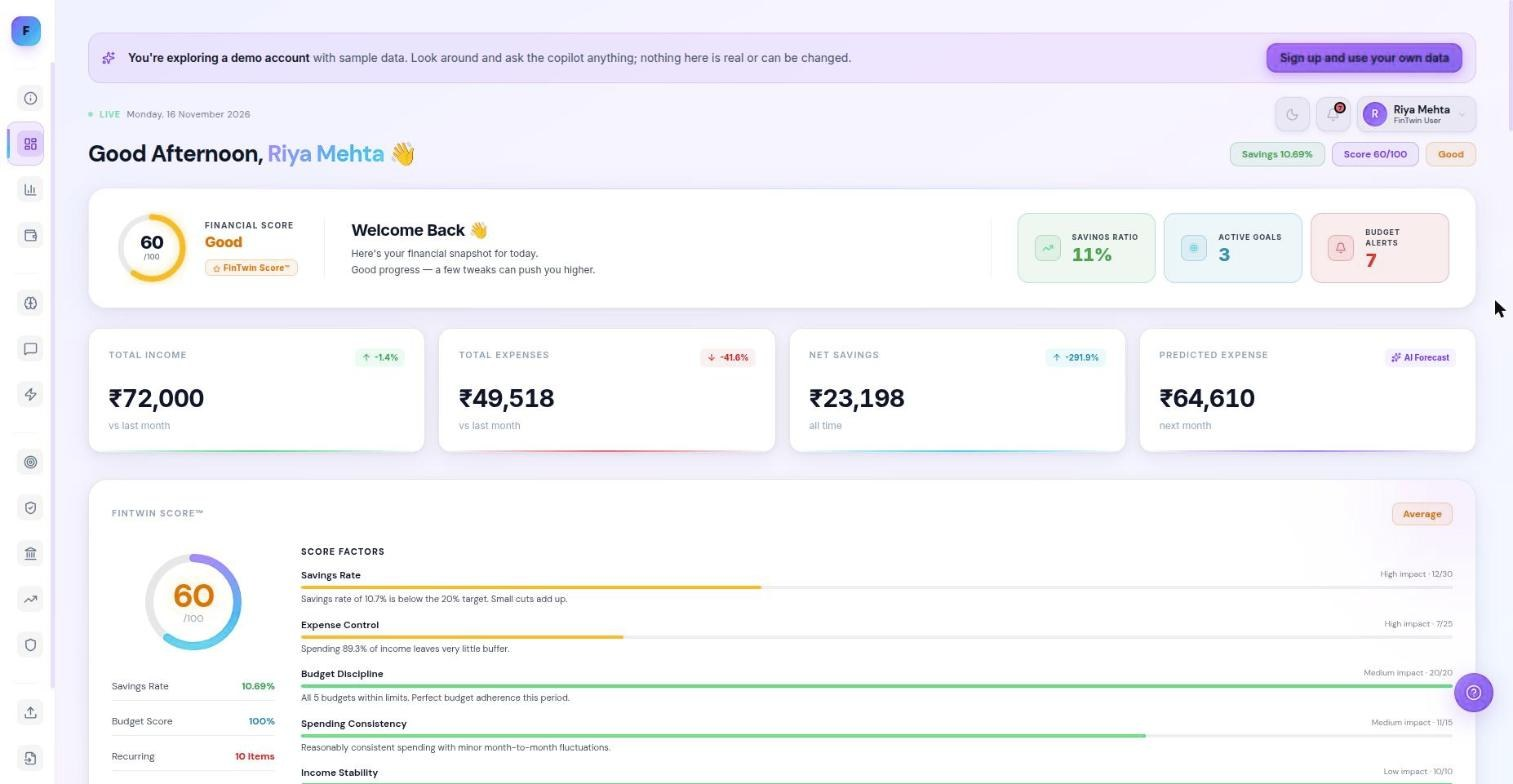
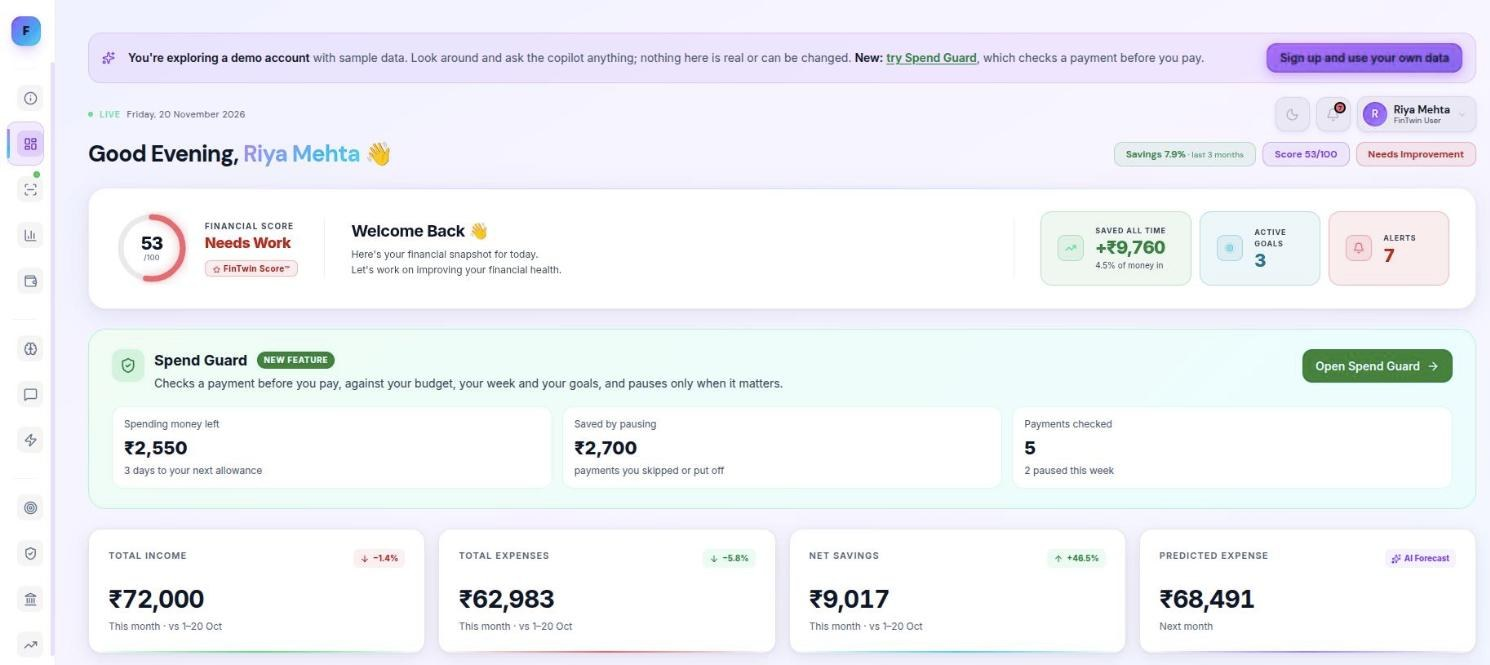
docs: README for the Cloud Run build, Spend Guard and Google AI
- Live link on Cloud Run, a Spend Guard section and screenshot, a Google AI
  section (ADK agents on Gemini on Vertex AI, code checks, evals, governance,
  the Agent Skill), and the five-service architecture.
- Current test counts; ARCHITECTURE.md points to the current deployment;
  Vertex trial-billing item marked fixed in ai-governance.md.

Claude-Session: https://claude.ai/code/session_015RSzoyLXq1rSgJbRxShhhK

diff --git a/README.md b/README.md
@@ -1,13 +1,14 @@
 <h1 align="center">FinTwin AI</h1>
 
 <p align="center">
-  <b>An AI money copilot for young Indian earners.</b><br>
-  Reads your bank and UPI statements, shows where every ₹ goes, and answers money questions from your own numbers.
+  <b>Pause before you pay.</b><br>
+  An AI money copilot for young Indian earners. Its new feature, <b>Spend Guard</b>, checks a UPI payment
+  against your budget, your week and your goals before the money leaves.
 </p>
 
 <p align="center">
-  <a href="https://fintwin-web.azurewebsites.net"><b>Live demo: one click, no sign-up</b></a>
-  &nbsp;·&nbsp; Public beta &nbsp;·&nbsp; v0.1.0
+  <a href="https://fintwin-web-171222129367.asia-south1.run.app"><b>Live demo: one click, no sign-up</b></a>
+  &nbsp;·&nbsp; Public beta &nbsp;·&nbsp; Runs on Google Cloud Run with Gemini on Vertex AI
 </p>
 
 <p align="center">
@@ -18,65 +19,133 @@
 
 ## The problem
 
-Young earners in India have money spread across bank accounts, UPI apps, cards, loans and investments, with no single view of it. Statements are cryptic (`UPI/DR/PAYTM-XYZ` says nothing about groceries or rent). Budgeting apps depend on manual entry and get abandoned, and general chatbots can explain an SIP but don't know whether *you* can afford one this month.
+UPI made paying instant: scan, PIN, done. That's great for paying and terrible for noticing. Young earners in
+India see where their money went only at the end of the month, in a statement, when it's too late to change
+anything. Budgeting apps report on spending after it happens. Nothing steps in at the one moment that matters:
+just before you pay.
 
-## What FinTwin does
+## Spend Guard (new)
 
-- **Data in, no typing.** Import bank statements as CSV, PDF or Excel, or forward bank alert emails (DKIM-verified). Bank linking through RBI's Account Aggregator framework is in testing.
-- **Understood automatically.** Every transaction is categorized by rules, learned merchant rules and an LLM, and the categorizer learns from your corrections. Transfers between your own accounts are excluded, and recurring bills and unusual spending are flagged.
-- **An AI copilot that uses your real numbers.** Ask a money question in plain English and the copilot looks up your actual income, spending and goals through tools before it answers. The maths is done in code, not by the model.
-- **The full picture.** Dashboard, analytics, budgets, a financial health score, goal plans, net worth, investments, insurance and a cash-flow forecast.
-- **Try it without an account.** A shared, read-only demo account behind "Try the demo".
+Scan a shop's QR code (or type a UPI ID) in FinTwin before you pay. In a few seconds Spend Guard decides:
+
+- **Essentials and small payments go straight through.** Groceries, bills, rent and small amounts never wait,
+  and never reach the AI ("fast lane").
+- **The rest gets a check by an AI agent** that reads your budgets, this week's spending money and your goals.
+  When a payment matters, it **pauses** and says why, with your own numbers: *"This ₹2,400 takes your Shopping
+  budget ₹1,500 over and pushes your Goa trip back about 12 days."*
+- **A pause, never a block.** *Pay anyway* unlocks after five seconds; you can skip it or put it on a 48-hour
+  wishlist. **Betting always pauses**, whatever the amount (a rule in code, not a line in a prompt).
+- **Then Google Pay pays.** FinTwin never holds money. It opens Google Pay with the payee and amount filled in
+  (PhonePe and Paytm as backups); on a computer it shows the payment as a QR code to scan with your phone.
+- **It only counts once it's paid.** Tapping Pay leaves the payment waiting until you say "I paid" or the
+  payment shows up in your transactions. When a bank statement comes in without it, Spend Guard asks whether you
+  paid, so a payment that never happened can't quietly lower your savings.
+- **Payee unknown?** Paying a person or an unrecognised UPI ID, it asks what the payment is for first.
+- **Salary day.** The Payday Planner splits your salary into bills, goals, a buffer and four weekly allowances
+  (or you set the split yourself; it's checked the same way). A top-up agent and a rebalance agent move money
+  between weeks without ever touching bill money.
+
+<p align="center">
+  <img src="docs/images/spend-guard.jpg" alt="Spend Guard pausing a ₹2,400 clothes payment and explaining why" width="900">
+</p>
+
+## What else FinTwin does
+
+- **Data in, no typing.** Import bank statements as CSV, PDF or Excel, or forward bank alert emails
+  (DKIM-verified).
+- **Understood automatically.** Every transaction is categorized by rules, learned merchant rules and an LLM,
+  and the categorizer learns from your corrections.
+- **An AI copilot that uses your real numbers.** Ask a money question in plain English; the copilot looks up
+  your actual income, spending, goals and Spend Guard activity through tools, instead of guessing.
+- **The full picture.** Dashboard, analytics, budgets, a financial health score, goal plans, net worth,
+  investments, insurance and a cash-flow forecast.
+- **Try it without an account.** A shared demo account behind "Try the live demo", with its own sandboxed
+  Spend Guard for every visit.
 
 <p align="center">
   <img src="docs/images/dashboard.jpg" alt="FinTwin AI dashboard" width="900">
 </p>
 
+## Google AI in FinTwin
+
+| What | How |
+|---|---|
+| **Spend Guard's agents** | Four [Google ADK](https://google.github.io/adk-docs/) `LlmAgent`s (payment check, top-up, payday planner, rebalance) on **Gemini (3.7 Flash) on Vertex AI**, run by ADK `Runner`s in `guard-service/agents/brain.py`. The payday planner reads the user's budgets and goals through **tools**; the other three get the facts already worked out in code. Every agent answers in a typed **output schema**. |
+| **Code has the last word** | Every answer is checked in code before anyone sees it (`guard-service/rules.py`): the decision must fit the facts, every ₹ figure in the message must be one the agent was given, betting can't go through, a plan must add up to the salary. A rejected answer is retried (up to three attempts), then a fixed-rules fallback answers, and the app says so. |
+| **Evals** | 23 scenario cases (`guard-service/evals/`) graded by code, run on Vertex AI across Gemini models to choose the model and to check every prompt change. |
+| **Copilot and AI service** | The copilot's tool loop, categorizer, spending coach and reports run on Gemini on Vertex AI through `google-genai` (`ai-service/utils/gemini_client.py`). |
+| **Governance** | Personal details are masked before anything reaches Gemini and in logs; payee names and the user's own words are passed as untrusted text; the copilot stays on money topics; every AI read of user data is audited ([`docs/ai-governance.md`](docs/ai-governance.md)). |
+| **Agent Skill** | [`.agents/skills/spend-guard-guardrails`](.agents/skills/spend-guard-guardrails/SKILL.md): Spend Guard's payment-safety rules as an Agent Skill, with a rule-to-code-to-test map and a check script that coding agents (and people) run before any change. |
+
 ## Architecture
 
 ```mermaid
 flowchart LR
-    U["User's browser"] -->|HTTPS| W["Web app<br/>React 19 · Vite · nginx"]
-    W -->|"login, 2FA, tokens"| I["Identity service<br/>Java 21 · Spring Boot"]
-    W -->|"REST /api/v1 · JWT"| A["Core API<br/>Java 21 · Spring Boot 3.5"]
-    A -->|"question + signed per-request token"| AI["AI service<br/>Python · FastAPI"]
-    AI -->|"tool calls (read-only data API)"| A
-    AI --> M["LLM via Ollama<br/>qwen2.5:3b on a GPU"]
-    A --> DB[("PostgreSQL<br/>Flyway migrations")]
+    U["User's browser<br/>phone or laptop"] -->|HTTPS| W
+    subgraph CR["Google Cloud Run · asia-south1"]
+        W["fintwin-web<br/>React 19 · nginx"]
+        I["fintwin-auth<br/>Identity · Spring Boot"]
+        A["fintwin-api<br/>Core API · Spring Boot 3.5"]
+        G["fintwin-guard<br/>Spend Guard · FastAPI<br/>Google ADK agents"]
+        AI["fintwin-ai<br/>Copilot · FastAPI"]
+    end
+    W -->|"login, 2FA, tokens"| I
+    W -->|"REST /api/v1 · JWT"| A
+    A -->|"user id + signed per-request token"| G
+    A -->|"question + signed per-request token"| AI
+    G -->|"tools: read-only data API"| A
+    AI -->|"tools: read-only data API"| A
+    G --> V["Gemini on<br/>Vertex AI"]
+    AI --> V
+    A --> DB[("PostgreSQL<br/>Supabase")]
     I --> DB
 ```
 
-Four services, one rule: **Java owns the data, Python owns the thinking.** The AI service has no database access. When the model needs a user's transactions it calls the core API, which decides what that user may see.
+One rule: **Java owns the data, Python owns the thinking.** Neither Python service has database access. When
+an agent needs a user's budgets or transactions it calls a tool, and the tool calls the core API's internal
+data API with a short-lived token the API signed for that one user and request. The model never sees or
+chooses a user id.
 
 | Service | Stack | Responsibility |
 |---|---|---|
-| `frontend/` | React 19, Vite 8, React Router 7 | The web app, landing page and demo |
-| `backend/` | Java 21, Spring Boot 3.5, Spring Security, JPA, Flyway | Transactions, budgets, goals, net worth, imports, admin, the AI data API |
+| `frontend/` | React 19, Vite, React Router 7 | The web app, landing page and demo |
+| `backend/` | Java 21, Spring Boot 3.5, Spring Security, JPA, Flyway | Transactions, budgets, goals, imports, Spend Guard's records and links, the AI data API |
 | `identity-service/` | Java 21, Spring Boot | Sign-up, login, JWT with rotating refresh tokens, TOTP 2FA, Google Sign-In, account lockout |
-| `ai-service/` | Python, FastAPI, pandas, pdfplumber | Copilot tool loop, categorization, statement parsing, forecasting, anomaly detection, evals |
+| `guard-service/` | Python, FastAPI, Google ADK, google-genai | Spend Guard: the four agents, the rules that check them, the wallet, evals |
+| `ai-service/` | Python, FastAPI, google-genai, pandas, pdfplumber | Copilot tool loop, categorization, statement parsing, forecasting, anomaly detection, evals |
+
+Built and shipped with **Cloud Build** and **Artifact Registry**; each service is a container on **Cloud Run**.
 
 ## Engineering highlights
 
-**AI that can't be talked into leaking data**
+**AI that can't be talked into leaking data or making up numbers**
 - The model's tools have no user-ID parameter: it can say *what* it wants, never *whose*.
-- Each question carries a short-lived token signed by the core API and bound to one user. The AI service can pass it on but cannot mint one.
-- A shared grounding guard checks model-written text in the spending coach, goal plans and reports: every ₹ figure must be one the model was given, attached to the right thing.
-- An eval suite of real questions over a fixture user, graded by code rather than another model, measures every prompt or model change.
+- Each request carries a short-lived token signed by the core API and bound to one user. The Python services
+  can pass it on but cannot mint one.
+- A grounding guard checks model-written text: every ₹ figure must be one the model was given.
+- Eval suites over fixture users, graded by code rather than another model, measure every prompt or model
+  change.
 
 **Security**
-- AES-256-GCM field-level encryption with a random IV per value, plus an HMAC blind index so encrypted emails can still be looked up.
+- AES-256-GCM field-level encryption with a random IV per value, plus an HMAC blind index so encrypted emails
+  can still be looked up. Spend Guard's own records are stored encrypted.
 - Refresh-token rotation with reuse detection: a replayed token revokes the whole token family.
-- TOTP 2FA with replay protection, account lockout, role-based access control with a custom permission evaluator, and an audit log.
-- Rate limiting per IP and per user, and a daily AI token allowance per user.
+- TOTP 2FA with replay protection, account lockout, role-based access control with a custom permission
+  evaluator, and an audit log.
+- Rate limiting per IP and per user, a daily AI allowance per user, and per-visit caps on the demo.
 
 **Reliability**
-- Circuit breakers around the AI service. When the model is down, forecasts fall back to a statistical calculation and the app says plainly that AI is offline.
-- Money is handled as `BigDecimal` and dates as `LocalDate`, with a documented monthly-units contract between the Java and Python services.
+- Circuit breakers around the AI service, and a fixed-rules fallback in Spend Guard. When a model is down,
+  Spend Guard still answers and forecasts fall back to a statistical calculation, and the app says plainly that
+  AI is offline.
+- Money is handled as `BigDecimal` and dates as `LocalDate`, with a documented monthly-units contract between
+  the Java and Python services.
 
 **Testing and delivery**
-- **1,100+ automated tests**: 448 in the AI service (pytest), about 400 across the two Spring Boot services (including Testcontainers integration tests on real PostgreSQL), and 267 in the frontend (Vitest).
-- GitHub Actions: a CI workflow per service, a security scan, and a CD workflow that builds and pushes container images.
-- Runs today on Azure App Service (web, API, identity), with PostgreSQL on Supabase and the AI service on a GPU machine behind a tunnel. Every service is containerised.
+- **1,400+ automated tests**: 508 in the AI service and 143 in Spend Guard (pytest), about 450 across the two
+  Spring Boot services (including Testcontainers integration tests on real PostgreSQL), and 340 in the frontend
+  (Vitest).
+- GitHub Actions: a CI workflow per service and a security scan.
 
 ## Repository layout
 
@@ -84,7 +153,9 @@ Four services, one rule: **Java owns the data, Python owns the thinking.** The A
 frontend/           React web app
 backend/            Core API (Spring Boot)
 identity-service/   Login and identity (Spring Boot)
+guard-service/      Spend Guard: ADK agents on Gemini, rules, evals (FastAPI)
 ai-service/         AI copilot, categorization, forecasting (FastAPI)
+.agents/skills/     Agent Skill with Spend Guard's guardrails
 docs/               Design notes, security reviews, deployment runbooks
 ops/                Monitoring alert rules
 scripts/            Deployment and local tooling
@@ -94,11 +165,11 @@ Good places to start reading: [`ARCHITECTURE.md`](ARCHITECTURE.md), [`docs/syste
 
 ## Running locally
 
-See [`docs/start-app.md`](docs/start-app.md) for the step-by-step guide (environment variables, database, Ollama, then each service), or run `./dev.sh` to start everything in one tmux session.
+See [`docs/start-app.md`](docs/start-app.md) for the step-by-step guide (environment variables, database, then each service), or run `./dev.sh` to start everything in one tmux session. The AI services use Gemini on Vertex AI by default (`gcloud auth application-default login`); a local model through Ollama is optional.
 
 ## Status
 
-FinTwin is in **public beta** with early users. Next up: Account Aggregator linking out of testing, a mobile-friendly app, and a hosted model option chosen by the eval suite.
+FinTwin is in **public beta** with early users. Spend Guard is new (November 2026). Next up: Account Aggregator linking out of testing, so payments are confirmed straight from the bank, and a mobile app with a one-tap scan.
 
 ## Team
 

diff --git a/docs/ai-governance.md b/docs/ai-governance.md
@@ -140,9 +140,10 @@ These need a decision or a live change:
 5. **Processing region.** Gemini runs on the `global` endpoint. Pinning
    `gemini-3.5-flash-lite` to an Indian region would keep most calls in India.
    `gemini-3.7-flash` is only on `global` today.
-6. **Trial billing** randomly refuses about one Vertex call in three (retried
-   up to six times). Activating the full billing account fixes it; a budget
-   alert on the project would cap surprises.
+6. ~~**Trial billing** randomly refused about one Vertex call in three.~~
+   Fixed 20 Nov 2026: the billing account is now a paid account, and 16 of 16
+   test calls succeeded on both Gemini models. Still open: a budget alert on the
+   project to cap surprises.
 7. Copilot conversations stored **before 20 Nov 2026** were not masked
    retroactively.
 8. A copy of `backend/.env` sits in the Cloud Build source bucket from an

diff --git a/ARCHITECTURE.md b/ARCHITECTURE.md
@@ -1,5 +1,11 @@
 # FinTwin.ai — Full Architecture
 
+> **Current deployment (November 2026):** five services on Google Cloud Run (web, API, identity,
+> Spend Guard's `guard-service`, and the AI service), with Gemini on Vertex AI for every AI feature and
+> PostgreSQL on Supabase. The [README](README.md#architecture) has the up-to-date diagram and the
+> Spend Guard agents. The sections below describe the core design, which is unchanged; references to
+> Ollama, tunnels and Azure are from earlier deployments.
+
 ## Overview
 
 FinTwin.ai is a three-tier fintech application. A React frontend communicates exclusively with a Spring Boot backend, which in turn calls a Python AI service for LLM and ML operations. The backend owns the database and is the single source of truth for all financial data.
